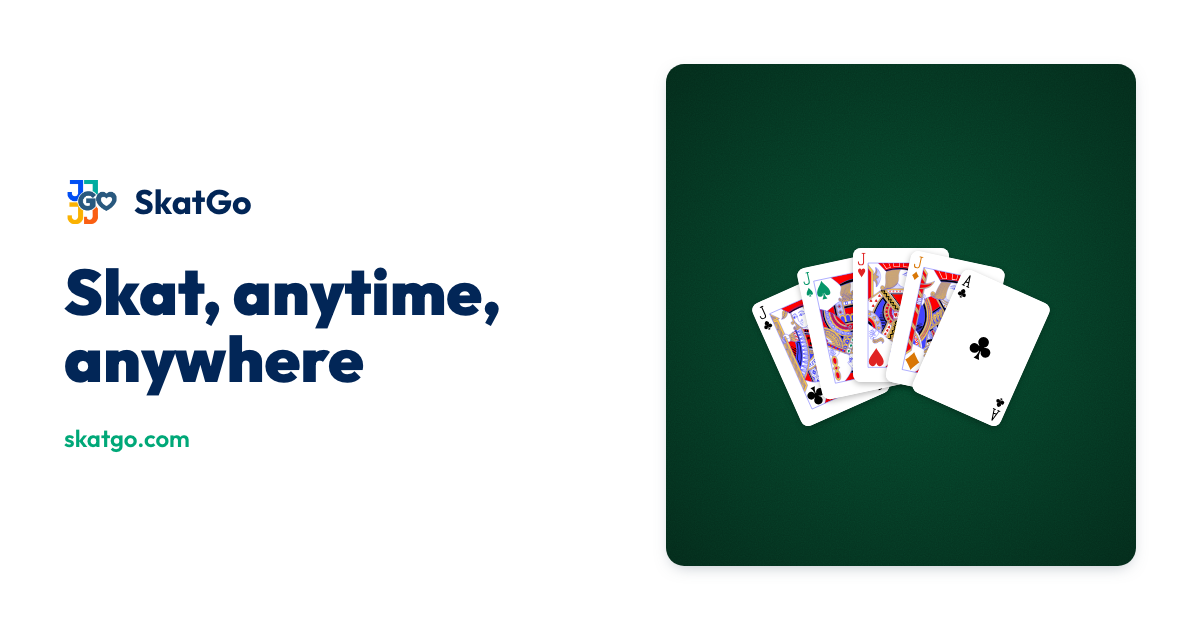
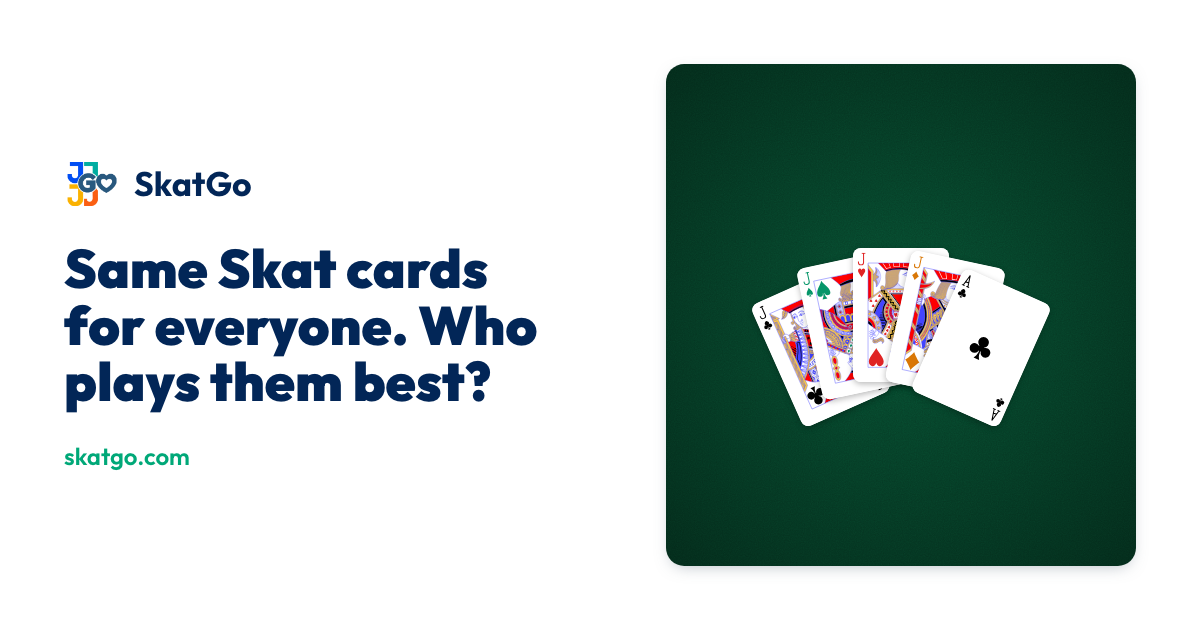
用这个文案，rework：首页 hero 改为每日 Skat 比赛（眉标 Daily Skat tournament, free / Tägliches Skat-Turnier, kostenlos；H1 Same Skat cards for everyone…），导航加 Daily / Täglich，新增 /en/daily、/de/taeglich
人：「你别管实际有没有，文案先行」。比赛本身尚未实现，/daily 的按钮暂时进自由对局；
每日牌数与预计分钟数来自 lib/daily.ts（12、20）。

Changed region(s): [[0.0308, 0.3921, 0.4625, 0.754], [0.0308, 0.2413, 0.2158, 0.3619]]

diff --git a/app/src/components/skat/entry-page.tsx b/app/src/components/skat/entry-page.tsx
@@ -4,6 +4,7 @@ import { Club, Spade } from 'lucide-react'
 import { type ComponentType, type ReactNode, useEffect, useState } from 'react'
 
 import { track } from '~/lib/analytics'
+import { DAILY_DEALS, DAILY_EST_MINUTES } from '~/lib/daily'
 import { faq } from '~/lib/faq'
 import type { Card } from '~/lib/skat/cards'
 import { lessons } from '~/lib/skat/lessons/content'
@@ -22,10 +23,11 @@ import { Pill, linkLook, suitText } from './ui'
 
 const NOTHING_DONE: Record<string, LessonRecord> = {}
 
-// The front page, in the lobby design (SKATGO-26, reference.md): the public site's hero — the headline,
-// the lead, the green call to action with the way in for beginners beside it, a picture, and a strip of
-// facts — then the two ways into Skat as the app's colour tiles, one suit each (♣ the course, ♠ free
-// play), and the questions people ask (SKATGO-29). Only what exists is on it: nothing is announced.
+// The front page, in the lobby design (SKATGO-26, reference.md): the public site's hero — the daily Skat
+// tournament as the headline, its green call to action with the way in for beginners beside it, a
+// picture, and a strip of facts — then the two other ways into Skat as the app's colour tiles, one suit
+// each (♣ the course, ♠ free play), and the questions people ask (SKATGO-29). The hero's copy leads the
+// tournament itself (the human, 2026-09-30: 「文案先行」).
 //
 // Every picture here is skatgo's own: the public-domain deck the course plays with, fanned on felt, and
 // the suits as outline icons. Rendered on the server; the learner's progress is applied after mount.
@@ -53,9 +55,9 @@ export function EntryPage() {
             </span>
           </div>
           <h1 {...stylex.props(typography.landingTitle, styles.title)}>{m.entry_title()}</h1>
-          <p {...stylex.props(typography.landingLead, styles.lead)}>{m.entry_lead()}</p>
+          <p {...stylex.props(typography.landingLead, styles.lead)}>{m.entry_lead({ deals: DAILY_DEALS })}</p>
           <div {...stylex.props(styles.actions)}>
-            <Link to="/play" data-testid="entry-cta" onClick={() => heroClick('primary')} {...linkLook('go', 'lg', 'landing')}>
+            <Link to="/daily" data-testid="entry-cta" onClick={() => heroClick('primary')} {...linkLook('go', 'lg', 'landing')}>
               {m.entry_cta()}
             </Link>
             <Link to="/course" data-testid="entry-cta-learn" onClick={() => heroClick('secondary')} {...linkLook('quiet', 'lg', 'landing')}>
@@ -65,7 +67,7 @@ export function EntryPage() {
         </div>
         <HeroArt />
         <ul data-testid="entry-points" {...stylex.props(styles.points)}>
-          {[m.entry_point_ready(), m.entry_point_browser(), m.entry_point_signup()].map((point) => (
+          {[m.entry_point_midnight(), m.entry_point_minutes({ minutes: DAILY_EST_MINUTES }), m.entry_point_signup()].map((point) => (
             <li key={point} {...stylex.props(typography.landingBody, styles.point)}>
               {point}
             </li>
@@ -190,8 +192,9 @@ const styles = stylex.create({
     alignItems: 'center',
     gap: { default: space.x32, [bp.phone]: space.x24 },
   },
-  heroText: { display: 'flex', flexDirection: 'column', alignItems: 'flex-start', gap: { default: space.x24, [bp.phone]: space.x16 } },
-  eyebrow: { display: 'flex', alignItems: 'center', gap: space.x12 },
+  heroText: { display: 'flex', flexDirection: 'column', alignItems: 'flex-start', minWidth: 0, gap: { default: space.x24, [bp.phone]: space.x16 } },
+  // The tournament's name and the four suits; on a narrow phone the suits drop under the name.
+  eyebrow: { display: 'flex', flexWrap: 'wrap', alignItems: 'center', gap: space.x12 },
   suits: { display: 'flex', alignItems: 'center', gap: space.x6 },
   suitInk: { color: color.navy },
   // Colour is stated, not inherited: the theme colours headings and paragraphs itself.

diff --git a/app/src/components/skat/frame.tsx b/app/src/components/skat/frame.tsx
@@ -1,7 +1,7 @@
 import { Show, SignInButton, UserButton } from '@clerk/tanstack-react-start'
 import { Link, useRouterState } from '@tanstack/react-router'
 import * as stylex from '@stylexjs/stylex'
-import { BookOpen, Check, ChevronLeft, GraduationCap, House, Menu, Settings, Spade, X } from 'lucide-react'
+import { BookOpen, CalendarDays, Check, ChevronLeft, GraduationCap, House, Menu, Settings, Spade, X } from 'lucide-react'
 import { type ComponentType, type ReactNode, useEffect, useState } from 'react'
 
 import { type CardColours, useSettings } from '~/lib/skat/settings'
@@ -26,11 +26,12 @@ import { Btn, linkLook, suitText } from './ui'
 //   Band           a sub-page's coloured band: back and home, the page's title, language and account.
 // Navigation carries only what skatgo has (SKATGO-29: nothing announced).
 
-type Section = 'home' | 'course' | 'rules' | 'play'
-type Item = { key: string; section: Section; to: '/' | '/course' | '/rules' | '/play'; Icon: ComponentType<{ size?: number; strokeWidth?: number }>; label: () => string }
+type Section = 'home' | 'daily' | 'course' | 'rules' | 'play'
+type Item = { key: string; section: Section; to: '/' | '/daily' | '/course' | '/rules' | '/play'; Icon: ComponentType<{ size?: number; strokeWidth?: number }>; label: () => string }
 
 const ITEMS: Item[] = [
   { key: 'home', section: 'home', to: '/', Icon: House, label: () => m.nav_home() },
+  { key: 'daily', section: 'daily', to: '/daily', Icon: CalendarDays, label: () => m.nav_daily() },
   { key: 'course', section: 'course', to: '/course', Icon: GraduationCap, label: () => m.nav_course() },
   { key: 'rules', section: 'rules', to: '/rules', Icon: BookOpen, label: () => m.nav_rules() },
   { key: 'play', section: 'play', to: '/play', Icon: Spade, label: () => m.nav_play() },
@@ -38,6 +39,7 @@ const ITEMS: Item[] = [
 
 /** Which section a path belongs to. The router has already removed the language prefix. */
 export function sectionOf(pathname: string): Section {
+  if (pathname.startsWith('/daily')) return 'daily'
   if (pathname.startsWith('/course')) return 'course'
   if (pathname.startsWith('/rules')) return 'rules'
   if (pathname.startsWith('/play')) return 'play'
@@ -98,6 +100,7 @@ export function LandingHeader() {
         <span {...stylex.props(typography.dialogTitle)}>{m.site_name()}</span>
       </Link>
       <nav aria-label={m.nav_label()} {...stylex.props(styles.landingNav)}>
+        <Link to="/daily" {...stylex.props(typography.landingNav, styles.landingLink)}>{m.nav_daily()}</Link>
         <Link to="/course" {...stylex.props(typography.landingNav, styles.landingLink)}>{m.nav_course()}</Link>
         <Link to="/rules" {...stylex.props(typography.landingNav, styles.landingLink)}>{m.nav_rules()}</Link>
         <Link to="/play" {...stylex.props(typography.landingNav, styles.landingLink)}>{m.nav_play()}</Link>
@@ -117,6 +120,7 @@ export function LandingHeader() {
       </div>
       {open ? (
         <div data-testid="landing-menu-panel" {...stylex.props(styles.menuPanel)}>
+          <Link to="/daily" onClick={() => setOpen(false)} {...stylex.props(typography.landingNav, styles.menuLink)}>{m.nav_daily()}</Link>
           <Link to="/course" onClick={() => setOpen(false)} {...stylex.props(typography.landingNav, styles.menuLink)}>{m.nav_course()}</Link>
           <Link to="/rules" onClick={() => setOpen(false)} {...stylex.props(typography.landingNav, styles.menuLink)}>{m.nav_rules()}</Link>
           <Link to="/play" onClick={() => setOpen(false)} {...stylex.props(typography.landingNav, styles.menuLink)}>{m.nav_play()}</Link>

diff --git a/app/src/routeTree.gen.ts b/app/src/routeTree.gen.ts
@@ -10,6 +10,7 @@
 
 import { Route as rootRouteImport } from './routes/__root'
 import { Route as IndexRouteImport } from './routes/index'
+import { Route as DailyRouteImport } from './routes/daily'
 import { Route as PlayRouteImport } from './routes/play'
 import { Route as RulesRouteImport } from './routes/rules'
 import { Route as CourseIndexRouteImport } from './routes/course.index'
@@ -18,6 +19,11 @@ import { Route as CourseSlugRouteImport } from './routes/course.$slug'
 const IndexRoute = IndexRouteImport.update({
   id: '/',
   path: '/',
+  getParentRoute: () => rootRouteImport,
+} as any)
+const DailyRoute = DailyRouteImport.update({
+  id: '/daily',
+  path: '/daily',
   getParentRoute: () => rootRouteImport,
 } as any)
 const PlayRoute = PlayRouteImport.update({
@@ -43,6 +49,7 @@ const CourseSlugRoute = CourseSlugRouteImport.update({
 
 export interface FileRoutesByFullPath {
   '/': typeof IndexRoute
+  '/daily': typeof DailyRoute
   '/play': typeof PlayRoute
   '/rules': typeof RulesRoute
   '/course/$slug': typeof CourseSlugRoute
@@ -50,6 +57,7 @@ export interface FileRoutesByFullPath {
 }
 export interface FileRoutesByTo {
   '/': typeof IndexRoute
+  '/daily': typeof DailyRoute
   '/play': typeof PlayRoute
   '/rules': typeof RulesRoute
   '/course/$slug': typeof CourseSlugRoute
@@ -58,6 +66,7 @@ export interface FileRoutesByTo {
 export interface FileRoutesById {
   __root__: typeof rootRouteImport
   '/': typeof IndexRoute
+  '/daily': typeof DailyRoute
   '/play': typeof PlayRoute
   '/rules': typeof RulesRoute
   '/course/$slug': typeof CourseSlugRoute
@@ -65,14 +74,22 @@ export interface FileRoutesById {
 }
 export interface FileRouteTypes {
   fileRoutesByFullPath: FileRoutesByFullPath
-  fullPaths: '/' | '/play' | '/rules' | '/course/$slug' | '/course/'
+  fullPaths: '/' | '/daily' | '/play' | '/rules' | '/course/$slug' | '/course/'
   fileRoutesByTo: FileRoutesByTo
-  to: '/' | '/play' | '/rules' | '/course/$slug' | '/course'
-  id: '__root__' | '/' | '/play' | '/rules' | '/course/$slug' | '/course/'
+  to: '/' | '/daily' | '/play' | '/rules' | '/course/$slug' | '/course'
+  id:
+    | '__root__'
+    | '/'
+    | '/daily'
+    | '/play'
+    | '/rules'
+    | '/course/$slug'
+    | '/course/'
   fileRoutesById: FileRoutesById
 }
 export interface RootRouteChildren {
   IndexRoute: typeof IndexRoute
+  DailyRoute: typeof DailyRoute
   PlayRoute: typeof PlayRoute
   RulesRoute: typeof RulesRoute
   CourseSlugRoute: typeof CourseSlugRoute
@@ -86,6 +103,13 @@ declare module '@tanstack/react-router' {
       path: '/'
       fullPath: '/'
       preLoaderRoute: typeof IndexRouteImport
+      parentRoute: typeof rootRouteImport
+    }
+    '/daily': {
+      id: '/daily'
+      path: '/daily'
+      fullPath: '/daily'
+      preLoaderRoute: typeof DailyRouteImport
       parentRoute: typeof rootRouteImport
     }
     '/play': {
@@ -121,6 +145,7 @@ declare module '@tanstack/react-router' {
 
 const rootRouteChildren: RootRouteChildren = {
   IndexRoute: IndexRoute,
+  DailyRoute: DailyRoute,
   PlayRoute: PlayRoute,
   RulesRoute: RulesRoute,
   CourseSlugRoute: CourseSlugRoute,

diff --git a/app/src/components/skat/daily-page.tsx b/app/src/components/skat/daily-page.tsx
@@ -1,0 +1,63 @@
+import { Link } from '@tanstack/react-router'
+import * as stylex from '@stylexjs/stylex'
+import { CalendarDays } from 'lucide-react'
+import { useEffect, useState } from 'react'
+
+import { DAILY_DEALS, dailyDate, untilNextDeals } from '~/lib/daily'
+import { LANG_TAG } from '~/lib/site'
+import { m } from '~/paraglide/messages'
+import { getLocale } from '~/paraglide/runtime'
+import { bp } from '../../theme/breakpoints.stylex'
+import { color } from '../../theme/color.stylex'
+import { space } from '../../theme/scale.stylex'
+import { dims } from '../../theme/shape.stylex'
+import { typography } from '../../theme/type'
+import { Band } from './frame'
+import { linkLook } from './ui'
+
+/**
+ * The daily Skat tournament's page (SKATGO-29): its title, today's date and the time until the next
+ * deals, and the way to play. The copy leads the tournament itself (the human, 2026-09-30: 「文案先行」):
+ * until it exists, "play" opens a free game. Rendered on the server; the date and the countdown depend
+ * on the moment, so they are filled in after mount rather than disagreeing with the server's.
+ */
+export function DailyPage() {
+  const [now, setNow] = useState<Date | null>(null)
+  useEffect(() => {
+    setNow(new Date())
+    const tick = setInterval(() => setNow(new Date()), 30_000)
+    return () => clearInterval(tick)
+  }, [])
+  const left = now ? untilNextDeals(now) : null
+  return (
+    <div data-testid="daily" {...stylex.props(styles.root)}>
+      <Band title={m.daily_title({ deals: DAILY_DEALS })} Icon={CalendarDays} back="/" />
+      <section {...stylex.props(styles.column)}>
+        <p data-testid="daily-lead" {...stylex.props(typography.landingBody, styles.lead)}>
+          {m.daily_lead({ date: now ? dailyDate(now, LANG_TAG[getLocale()]) : '…', countdown: left ? m.daily_countdown(left) : '…' })}
+        </p>
+        <div>
+          <Link to="/play" data-testid="daily-cta" {...linkLook('go', 'lg', 'landing')}>
+            {m.daily_cta()}
+          </Link>
+        </div>
+      </section>
+    </div>
+  )
+}
+
+const styles = stylex.create({
+  root: { display: 'flex', flexDirection: 'column' },
+  column: {
+    display: 'flex',
+    flexDirection: 'column',
+    gap: space.x24,
+    width: '100%',
+    maxWidth: dims.readingColumn,
+    marginInline: 'auto',
+    boxSizing: 'border-box',
+    paddingBlock: { default: space.x32, [bp.phone]: space.x16 },
+    paddingInline: { default: space.x24, [bp.phone]: space.x12 },
+  },
+  lead: { margin: 0, color: color.navy },
+})

diff --git a/app/src/lib/ask/context.ts b/app/src/lib/ask/context.ts
@@ -78,13 +78,14 @@ function describePlay(table: string): string {
   ].join('\n')
 }
 
-// The front page (SKATGO-23, SKATGO-29). It offers exactly two ways into Skat and names nothing else, so
-// the assistant is told exactly that and forbidden to invent more. Each is named as the page names it,
+// The front page (SKATGO-23, SKATGO-29). Its headline leads a daily tournament that is not playable yet,
+// then offers two ways into Skat; the assistant is told exactly that and forbidden to invent more. Each is named as the page names it,
 // so the answer uses the learner's own words for it.
 function describeEntry(course: Lesson[], locale: Locale): string {
   const name = (message: (inputs: object, options: { locale: Locale }) => string) => `"${message({}, { locale })}"`
   return [
-    'CURRENT PAGE: the front page of skatgo.com, offering two ways in (quoted as the page names them), then questions and answers:',
+    'CURRENT PAGE: the front page of skatgo.com. Its headline announces a daily Skat tournament (the same deals for everyone, a ranking, each deal compared with the computer). The tournament cannot be played yet: its page opens a free game meanwhile. Never invent its rules, scoring, prizes or dates; if asked, say exactly that.',
+    'Below the headline it offers two ways in (quoted as the page names them), then questions and answers:',
     `- ${name(m.entry_new_title)}, the course: ${course.length} short interactive lessons, from the 32 cards to a whole game.`,
     `- ${name(m.entry_game_title)}, free play: a free game against two computer players, Lina and Max.`,
     'The site also has a rules page, a reference of the whole game. These are all the site offers: never invent or promise other features.',

diff --git a/app/src/lib/daily.ts b/app/src/lib/daily.ts
@@ -1,0 +1,26 @@
+// The daily Skat tournament's settings (SKATGO-29). The pages describe it ahead of the tournament
+// itself (the human, 2026-09-30: 「文案先行」); the numbers they print come from here, never from the copy.
+
+/** Deals in one day's tournament. */
+export const DAILY_DEALS = 12
+
+/** About how long a day's deals take, in minutes. */
+export const DAILY_EST_MINUTES = 20
+
+/** New deals start at midnight in this time zone. */
+export const DAILY_TIME_ZONE = 'Europe/Berlin'
+
+/** Today's date in the tournament's time zone, written the way the language writes a long date. */
+export const dailyDate = (now: Date, locale: string) => new Intl.DateTimeFormat(locale, { dateStyle: 'long', timeZone: DAILY_TIME_ZONE }).format(now)
+
+/** Hours and minutes until the next midnight in the tournament's time zone. */
+export function untilNextDeals(now: Date): { h: number; m: number } {
+  const parts = Object.fromEntries(
+    new Intl.DateTimeFormat('en-GB', { timeZone: DAILY_TIME_ZONE, hour: '2-digit', minute: '2-digit', second: '2-digit', hourCycle: 'h23' })
+      .formatToParts(now)
+      .filter((p) => p.type !== 'literal')
+      .map((p) => [p.type, Number(p.value)]),
+  )
+  const left = 24 * 60 - (parts.hour * 60 + parts.minute) - (parts.second > 0 ? 1 : 0)
+  return { h: Math.floor(left / 60), m: left % 60 }
+}

diff --git a/app/src/components/skat/client-page.tsx b/app/src/components/skat/client-page.tsx
@@ -1,4 +1,5 @@
 import { CourseHome } from './course-home'
+import { DailyPage } from './daily-page'
 import { EntryPage } from './entry-page'
 import { FreePlay } from './free-play'
 import { LessonPage } from './lesson-page'
@@ -9,7 +10,7 @@ import { RulesPage } from './rules-page'
 // Every page is rendered on the server (SKATGO-1, SKATGO-23, SKATGO-29), so search engines read each
 // language's titles, text and links. What only the browser can render — a lesson's player and the
 // free-play table — each page loads lazily through ./client-part.tsx; progress is applied after mount.
-const PAGES = { entry: EntryPage, course: CourseHome, lesson: LessonPage, rules: RulesPage, play: FreePlay }
+const PAGES = { entry: EntryPage, daily: DailyPage, course: CourseHome, lesson: LessonPage, rules: RulesPage, play: FreePlay }
 
 export function ClientPage({ page }: { page: keyof typeof PAGES }) {
   const Page = PAGES[page]

diff --git a/app/src/routes/index.tsx b/app/src/routes/index.tsx
@@ -2,9 +2,9 @@ import { createFileRoute } from '@tanstack/react-router'
 
 import { ClientPage } from '~/components/skat/client-page'
 import { faq } from '~/lib/faq'
+import { DAILY_DEALS } from '~/lib/daily'
 import { organization, pageHead, samePath } from '~/lib/head'
 import { SITE_URL, localizedUrl } from '~/lib/site'
-import { lessons } from '~/lib/skat/lessons/content'
 import { m } from '~/paraglide/messages'
 import { getLocale } from '~/paraglide/runtime'
 
@@ -12,7 +12,7 @@ export const Route = createFileRoute('/')({
   head: () =>
     pageHead({
       title: m.home_meta_title(),
-      description: m.home_meta_description({ count: lessons().length }),
+      description: m.home_meta_description({ deals: DAILY_DEALS }),
       paths: samePath('/'),
       image: 'home',
       jsonLd: [

diff --git a/app/src/routes/daily.tsx b/app/src/routes/daily.tsx
@@ -1,0 +1,18 @@
+import { createFileRoute } from '@tanstack/react-router'
+
+import { ClientPage } from '~/components/skat/client-page'
+import { DAILY_DEALS } from '~/lib/daily'
+import { breadcrumbs, pageHead, samePath } from '~/lib/head'
+import { m } from '~/paraglide/messages'
+
+export const Route = createFileRoute('/daily')({
+  head: () =>
+    pageHead({
+      title: m.daily_meta_title(),
+      description: m.daily_meta_description({ deals: DAILY_DEALS }),
+      paths: samePath('/daily'),
+      image: 'daily',
+      jsonLd: [breadcrumbs([[m.nav_daily(), '/daily']])],
+    }),
+  component: () => <ClientPage page="daily" />,
+})

diff --git a/app/src/lib/sitemap.ts b/app/src/lib/sitemap.ts
@@ -7,7 +7,7 @@ import { LANG_TAG, SITE_URL, localizedUrl } from './site'
 // new language cannot leave it stale; sitemap.test.ts holds the page list to the route tree.
 
 /** The route paths of the pages that are the same in every language. */
-export const PAGES = ['/', '/course', '/rules', '/play']
+export const PAGES = ['/', '/daily', '/course', '/rules', '/play']
 
 /** Every page as its path in each language. */
 export function sitemapPages(): Record<Locale, string>[] {

diff --git a/app/paraglide.options.ts b/app/paraglide.options.ts
@@ -50,6 +50,13 @@ export const paraglideOptions: Parameters<typeof paraglideVitePlugin>[0] = {
       ],
     },
     {
+      pattern: '/daily',
+      localized: [
+        ['en', '/en/daily'],
+        ['de', '/de/taeglich'],
+      ],
+    },
+    {
       pattern: '/play',
       localized: [
         ['en', '/en/play'],
